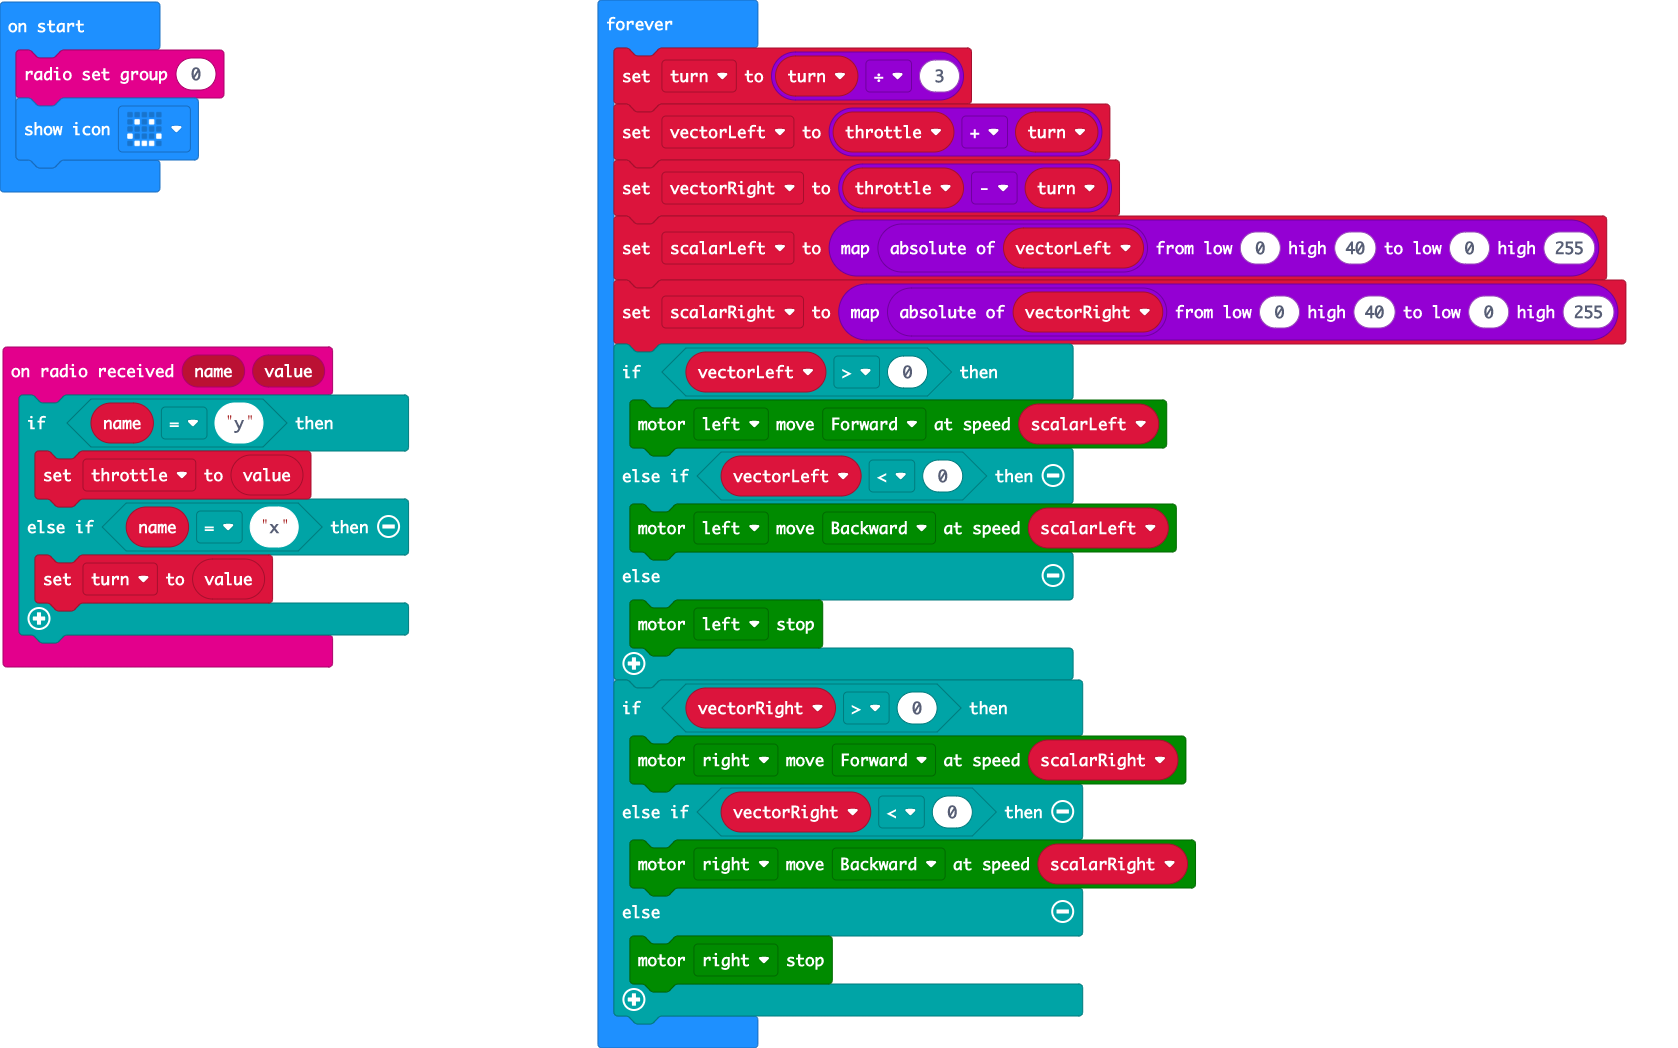
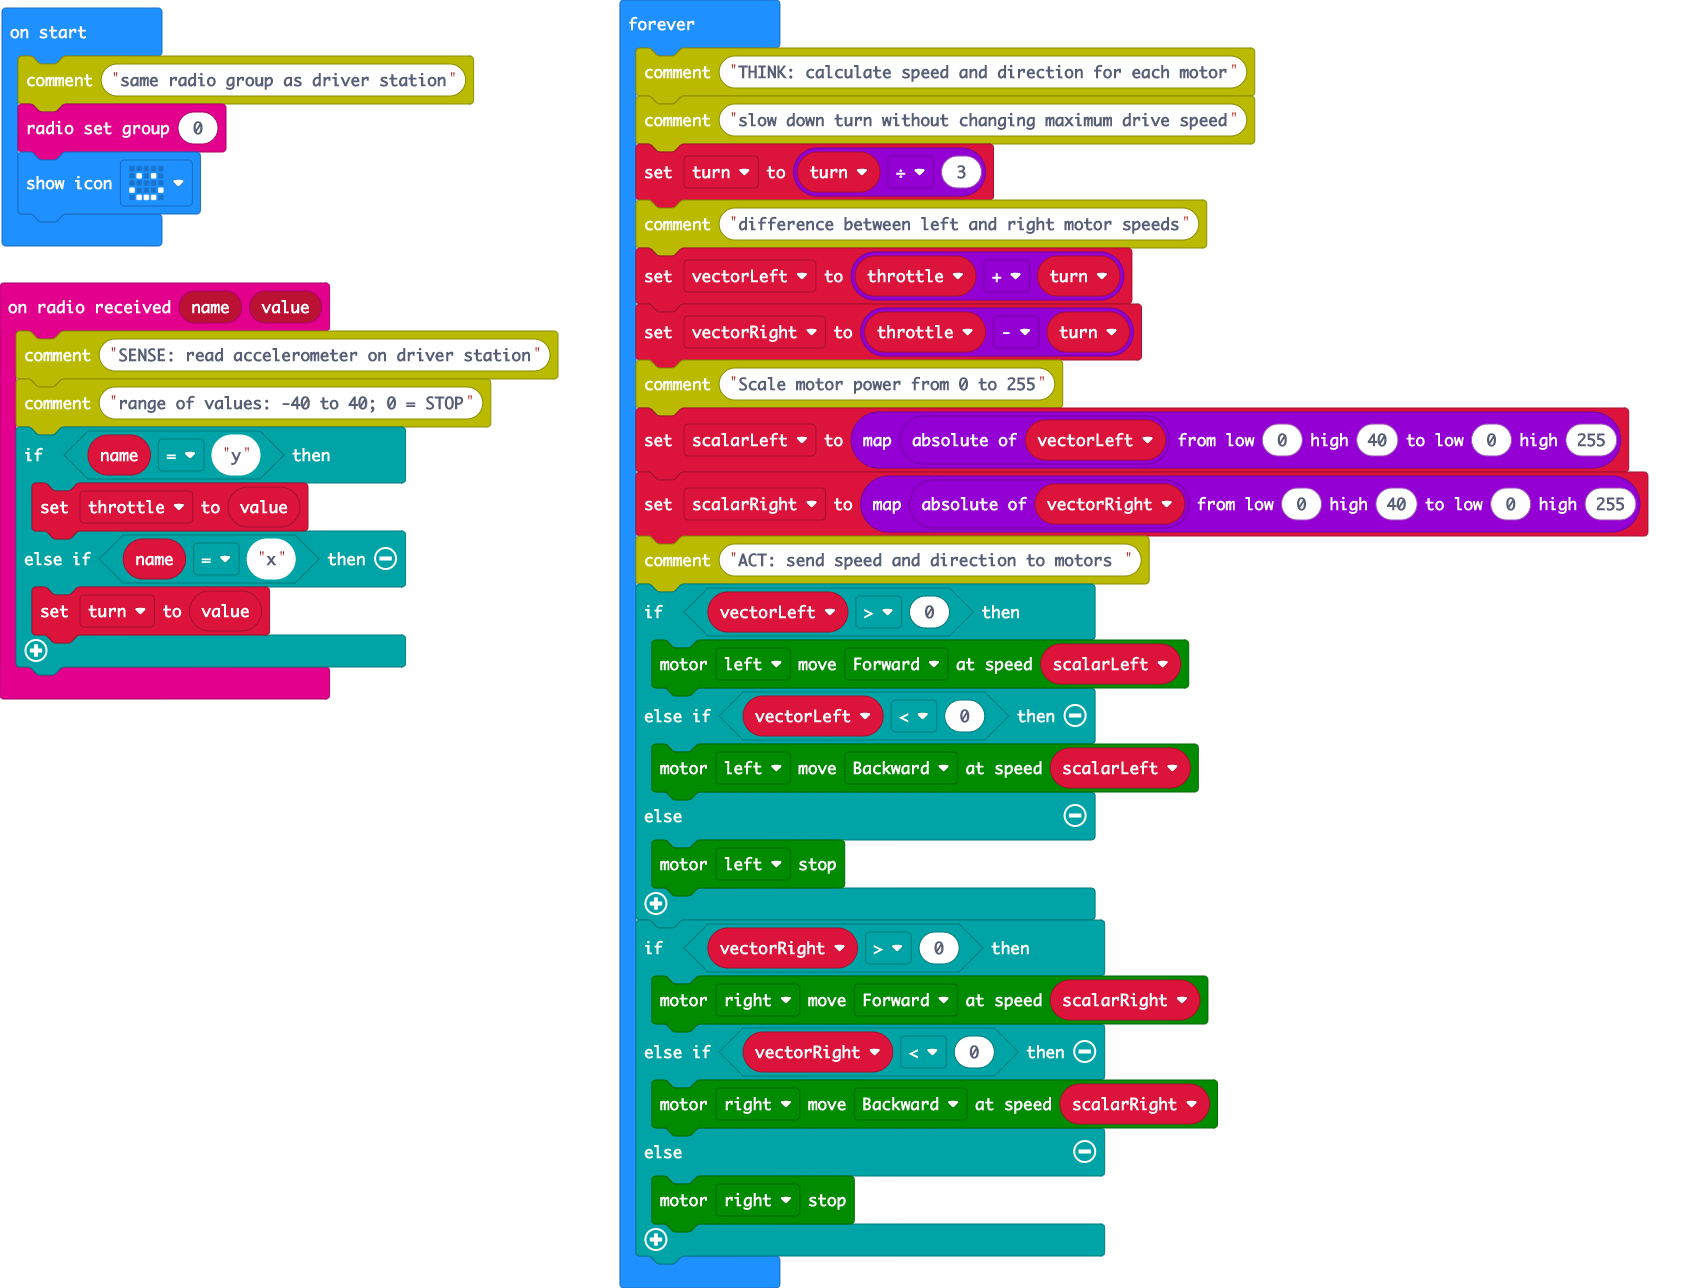
Update pxt.json, main.blocks, main.ts

diff --git a/main.ts b/main.ts
@@ -1,4 +1,6 @@
 radio.onReceivedValue(function (name, value) {
+    comment.comment("SENSE: read accelerometer on driver station")
+    comment.comment("range of values: -40 to 40; 0 = STOP")
     if (name == "y") {
         throttle = value
     } else if (name == "x") {
@@ -11,14 +13,20 @@ let vectorRight = 0
 let vectorLeft = 0
 let turn = 0
 let throttle = 0
+comment.comment("same radio group as driver station")
 radio.setGroup(0)
 basic.showIcon(IconNames.Happy)
 basic.forever(function () {
+    comment.comment("THINK: calculate speed and direction for each motor")
+    comment.comment("slow down turn without changing maximum drive speed")
     turn = turn / 3
+    comment.comment("difference between left and right motor speeds")
     vectorLeft = throttle + turn
     vectorRight = throttle - turn
+    comment.comment("Scale motor power from 0 to 255")
     scalarLeft = Math.map(Math.abs(vectorLeft), 0, 40, 0, 255)
     scalarRight = Math.map(Math.abs(vectorRight), 0, 40, 0, 255)
+    comment.comment("ACT: send speed and direction to motors ")
     if (vectorLeft > 0) {
         maqueen.motorRun(maqueen.Motors.M1, maqueen.Dir.CW, scalarLeft)
     } else if (vectorLeft < 0) {
